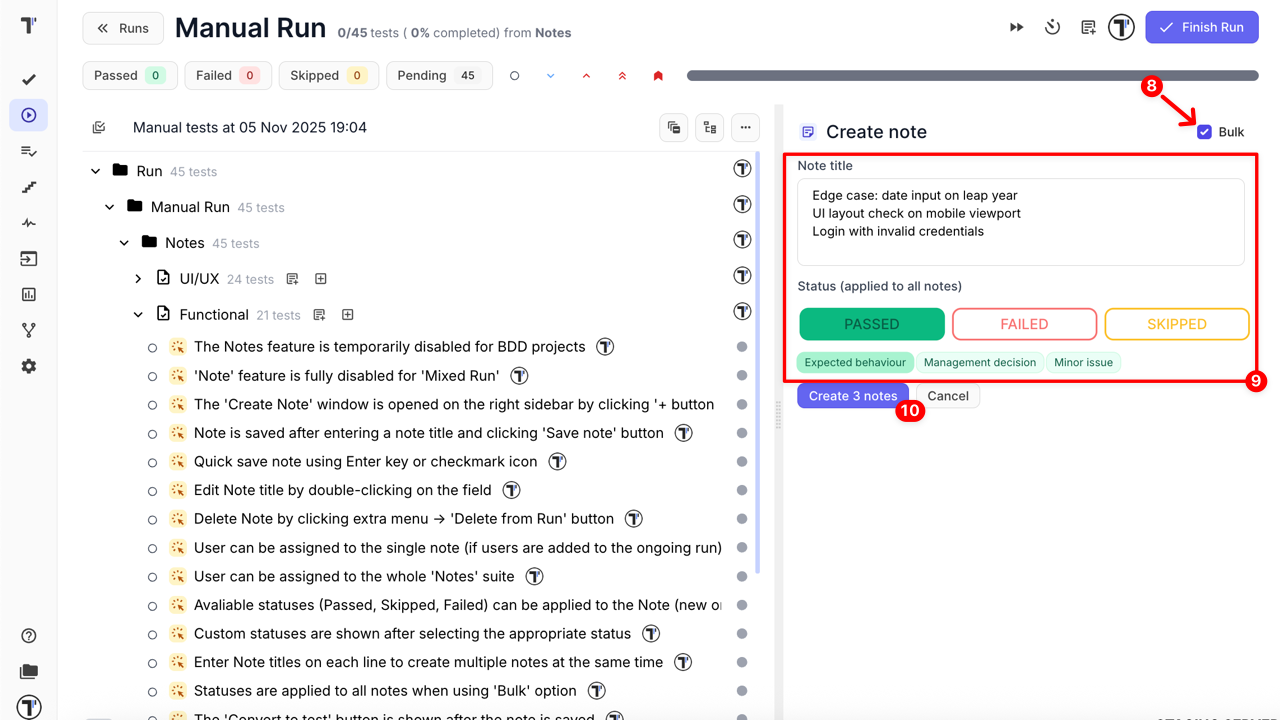
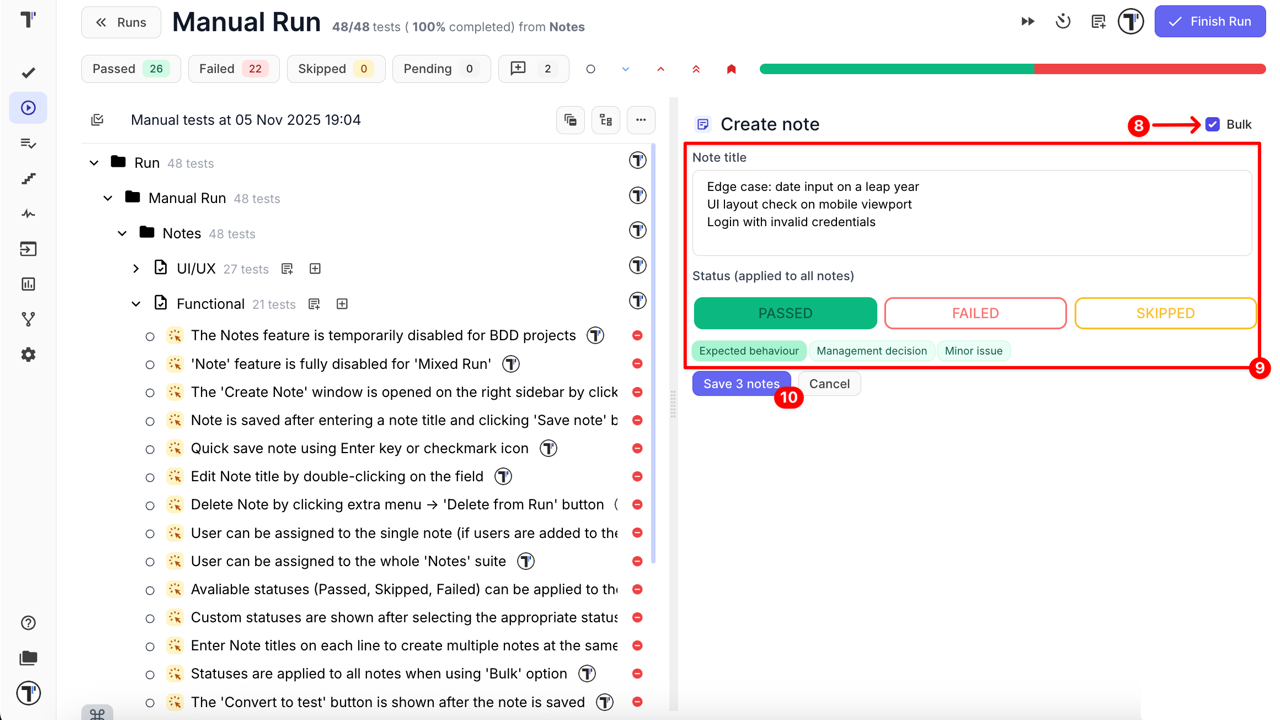
quick actions

diff --git a/src/content/docs/project/runs/temporary-tests-notes.md b/src/content/docs/project/runs/temporary-tests-notes.md
@@ -72,7 +72,7 @@ For detailed run configuration, see [How to Configure a Manual Run.](https://doc
 - **Sub-status:** (optional)
 - **Result message:** (optional)
 
-10. Click the **Create # notes** to save all notes at once
+10. Click the **Save # notes** to save all notes at once
 
 ![Create bulk notes](./images/att5_1364.png)
 
@@ -128,9 +128,18 @@ If the **Add note to suite** button doesn't appear next to the suite, please ena
 - **Sub-status:** (optional)
 - **Result message:** (optional)
 
-10. Click the **Create # notes** to save all notes at once
+10. Click the **Save # notes** to save all notes at once
 
 ![Create bulk notes](./images/att5_1364.png)
+
+#### Quick Actions
+
+To make the process of creating and managing Notes even faster, you can use the following quick actions:
+
+- Press **Enter** to create a Note — when adding a single Note (not in Bulk mode), simply type the title and press Enter to create it instantly, without clicking the Save note button.
+- Double-click to edit a Note title — you can quickly rename an existing Note by double-clicking its title directly in the Notes window.
+
+These shortcuts speed up the workflow and make it easier to capture insights during manual test runs.
 
 ### How to Convert Notes to Tests
 
